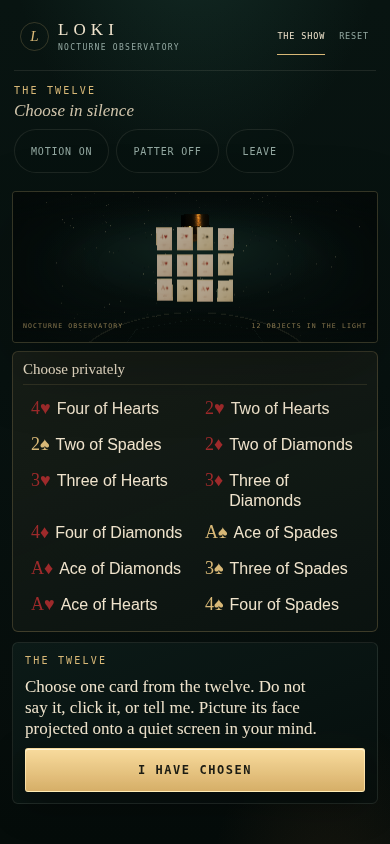
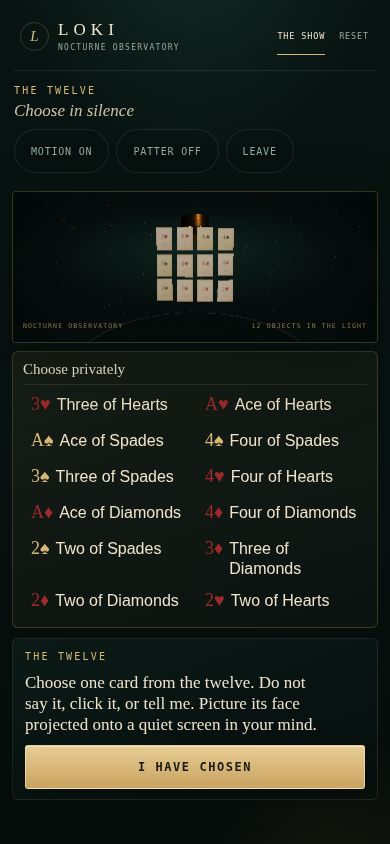
layout: keep the think beat inside 1280x720 with the text roster
CI caught MAJ-07 failing at laptop 1280x720 (scrollHeight 753 > 720):
the text-row roster wrapped long labels to two lines and added a
border-top rule, growing the think beat past the viewport. Tracks are
now 170px minimum with 12px gaps so labels sit on one line at laptop
and desktop widths, and the list's top spacing is trimmed. Local
reproduction matched CI before the fix; layout 9/9 including the
1280x720 think-beat fit, show 8/8, performer 3/3, performer-flow 6/6,
show-continuation 3/3, handoff-consent 3/3; 511 unit, lint 0 errors,
build, isolation, provenance.

Changed region(s): [[0.0308, 0.4621, 0.9231, 0.955], [0.5231, 0.4621, 0.9231, 0.7393]]

diff --git a/apps/web/src/styles.css b/apps/web/src/styles.css
@@ -771,10 +771,10 @@ button,
 
 .silent-choice-list {
   display: grid;
-  grid-template-columns: repeat(auto-fit, minmax(150px, 1fr));
-  gap: 2px 24px;
-  margin: 10px 0 0;
-  padding: 10px 0 0;
+  grid-template-columns: repeat(auto-fit, minmax(170px, 1fr));
+  gap: 2px 12px;
+  margin: 8px 0 0;
+  padding: 6px 0 0;
   border-top: 1px solid rgba(216, 184, 119, 0.14);
   list-style: none;
 }
